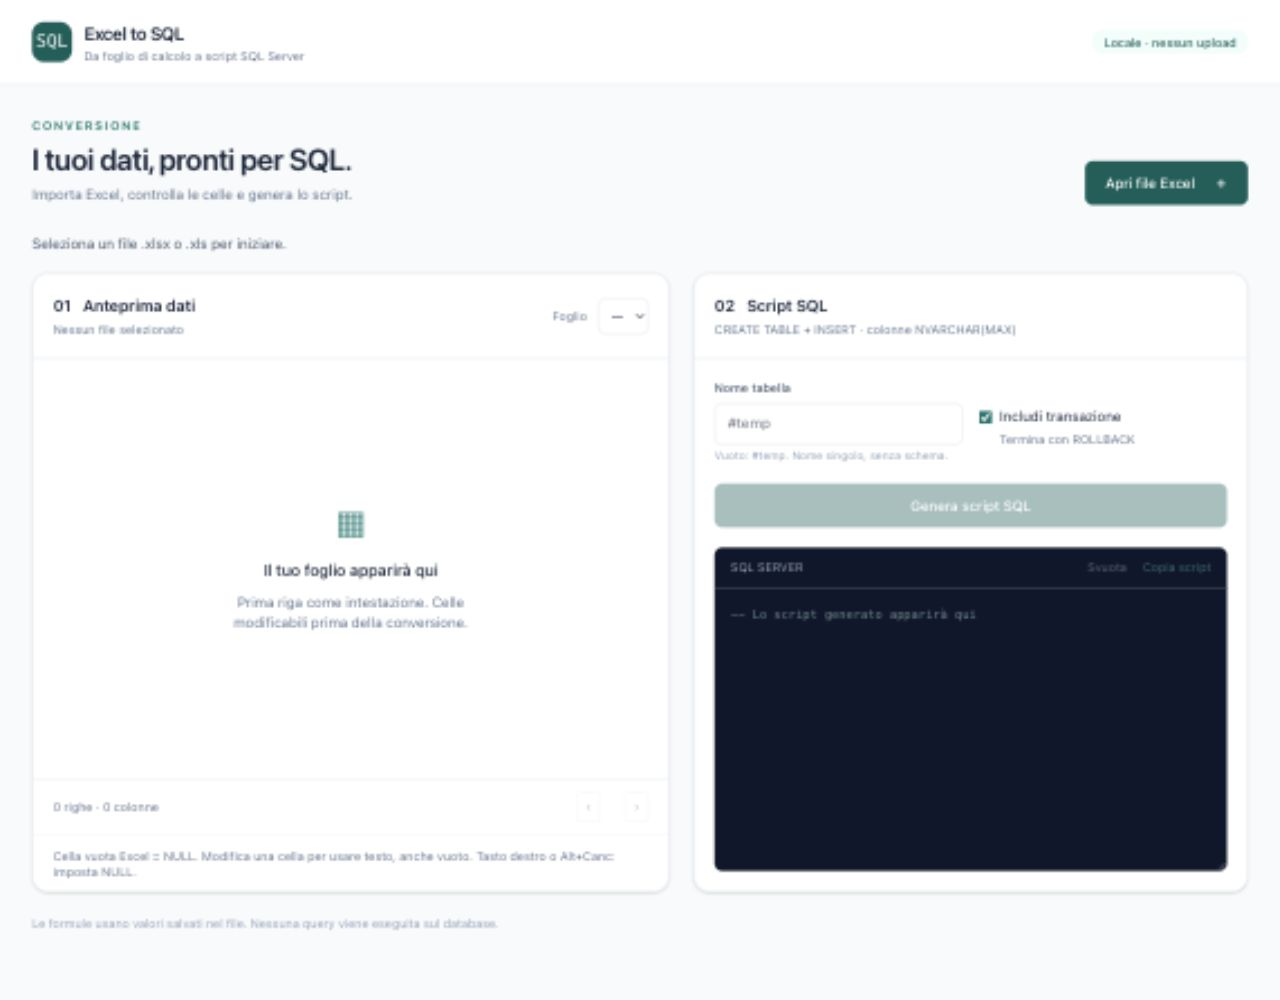
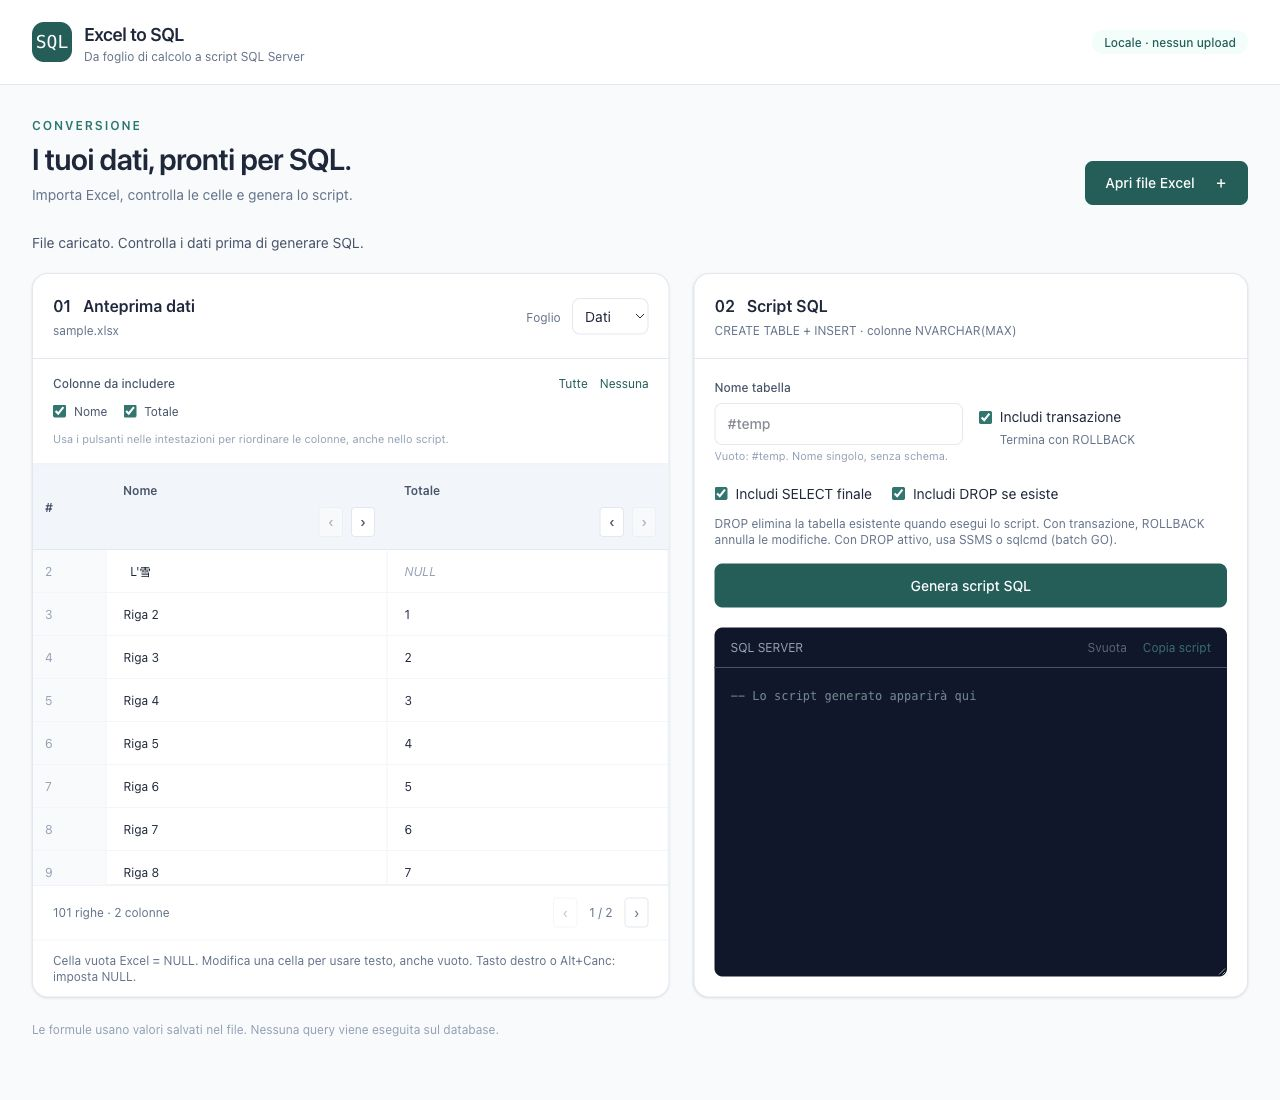
feat: porta selezione colonne e opzioni SQL 1.1.0

diff --git a/src/main.ts b/src/main.ts
@@ -6,6 +6,7 @@ import { writeText } from '@tauri-apps/plugin-clipboard-manager';
 type Sheet = { name: string; headers: string[]; rows: (string | null)[][]; warnings: string[] };
 let sheets: Sheet[] = [];
 let selected = 0;
+let included: boolean[][] = [];
 let page = 0;
 let busy = false;
 const pageSize = 100;
@@ -17,12 +18,14 @@ app.innerHTML = `
 <p id="status" role="status" aria-live="polite" class="mb-5 min-h-5 text-sm text-slate-600">Seleziona un file .xlsx o .xls per iniziare.</p>
 <div class="grid gap-6 xl:grid-cols-[minmax(0,1.15fr)_minmax(0,1fr)]">
 <section class="panel flex min-w-0 flex-col"><div class="flex flex-wrap items-center justify-between gap-3 border-b border-slate-200 p-5"><div><h3 class="font-semibold">01 <span class="ml-2">Anteprima dati</span></h3><p id="filename" class="mt-1 max-w-80 truncate text-xs text-slate-500">Nessun file selezionato</p></div><label class="text-xs text-slate-500">Foglio <select id="sheet" disabled class="ml-2 max-w-48 rounded-lg border border-slate-200 bg-white p-2 text-sm text-slate-800"><option>—</option></select></label></div>
+<fieldset id="columns" hidden class="border-b border-slate-200 px-5 py-4"><legend class="sr-only">Colonne da includere nello script</legend><div class="mb-3 flex items-center justify-between gap-3"><span class="text-xs font-medium text-slate-600">Colonne da includere</span><div class="flex gap-3 text-xs text-teal-800"><button id="all-columns" type="button">Tutte</button><button id="no-columns" type="button">Nessuna</button></div></div><div id="column-list" class="flex max-h-28 flex-wrap gap-x-4 gap-y-2 overflow-auto"></div><p class="mt-3 text-[11px] text-slate-400">Usa i pulsanti nelle intestazioni per riordinare le colonne, anche nello script.</p></fieldset>
 <div id="warnings" class="hidden border-b border-amber-200 bg-amber-50 p-4 text-xs text-amber-900"></div>
 <div id="grid" class="h-[420px] overflow-auto"><div class="flex h-full flex-col items-center justify-center gap-3 p-8 text-center"><span class="text-4xl text-teal-700" aria-hidden="true">▦</span><p class="font-medium">Il tuo foglio apparirà qui</p><p class="max-w-64 text-sm text-slate-500">Prima riga come intestazione. Celle modificabili prima della conversione.</p></div></div>
 <div class="flex items-center justify-between border-t border-slate-200 px-5 py-3 text-xs text-slate-500"><span id="count">0 righe · 0 colonne</span><div class="flex items-center gap-3"><button id="previous" class="secondary" disabled aria-label="Pagina precedente">‹</button><span id="page"></span><button id="next" class="secondary" disabled aria-label="Pagina successiva">›</button></div></div>
 <p class="border-t border-slate-100 px-5 py-3 text-xs text-slate-500">Cella vuota Excel = NULL. Modifica una cella per usare testo, anche vuoto. Tasto destro o Alt+Canc: imposta NULL.</p></section>
 <section class="panel flex min-w-0 flex-col"><div class="border-b border-slate-200 p-5"><h3 class="font-semibold">02 <span class="ml-2">Script SQL</span></h3><p class="mt-1 text-xs text-slate-500">CREATE TABLE + INSERT · colonne NVARCHAR(MAX)</p></div>
 <div class="grid gap-4 p-5 sm:grid-cols-2"><label class="text-xs font-medium text-slate-600">Nome tabella<input id="name" placeholder="#temp" class="mt-2 w-full rounded-lg border border-slate-200 px-3 py-2.5 text-sm text-slate-900" maxlength="128"><span class="mt-1 block text-[11px] font-normal text-slate-400">Vuoto: #temp. Nome singolo, senza schema.</span></label><label class="flex items-start gap-2 pt-7 text-sm"><input id="transaction" type="checkbox" checked class="mt-1 accent-teal-700"><span>Includi transazione<span class="mt-1 block text-xs text-slate-500">Termina con ROLLBACK</span></span></label></div>
+<div class="flex flex-wrap gap-x-5 gap-y-3 px-5 pb-4 text-sm"><label class="flex items-center gap-2"><input id="include-select" type="checkbox" checked class="accent-teal-700">Includi SELECT finale</label><label class="flex items-center gap-2"><input id="drop-existing" type="checkbox" checked class="accent-teal-700">Includi DROP se esiste</label><p class="w-full text-xs text-slate-500">DROP elimina la tabella esistente quando esegui lo script. Con transazione, ROLLBACK annulla le modifiche. Con DROP attivo, usa SSMS o sqlcmd (batch GO).</p></div>
 <div class="px-5 pb-5"><button id="generate" disabled class="primary w-full">Genera script SQL</button></div>
 <div class="mx-5 flex items-center justify-between rounded-t-lg bg-slate-900 px-4 py-3 text-xs text-slate-400"><span>SQL SERVER</span><div class="flex gap-4"><button id="clear" disabled class="text-slate-300 hover:text-white">Svuota</button><button id="copy" disabled class="text-teal-300 hover:text-teal-100">Copia script</button></div></div>
 <textarea id="output" aria-label="Script SQL generato" readonly spellcheck="false" placeholder="-- Lo script generato apparirà qui" class="mx-5 mb-5 min-h-64 flex-1 resize-y rounded-b-lg border-0 bg-slate-900 p-4 font-mono text-xs leading-6 text-teal-100 outline-none"></textarea></section></div>
@@ -32,13 +35,37 @@ const status = (text: string, error = false) => { el('status').textContent = tex
 const output = el<HTMLTextAreaElement>('output');
 function invalidate() { output.value = ''; buttons(); }
 function buttons() {
-  for (const id of ['import', 'sheet', 'name', 'transaction']) (el(id) as HTMLInputElement).disabled = busy || (id === 'sheet' && !sheets.length);
-  el<HTMLButtonElement>('generate').disabled = busy || !sheets[selected]?.headers.length;
+  for (const id of ['import', 'sheet', 'name', 'transaction', 'include-select', 'drop-existing']) (el(id) as HTMLInputElement).disabled = busy || (id === 'sheet' && !sheets.length);
+  el<HTMLButtonElement>('generate').disabled = busy || !included[selected]?.some(Boolean);
   for (const id of ['copy', 'clear']) el<HTMLButtonElement>(id).disabled = busy || !output.value;
   el('grid').querySelectorAll('input').forEach(input => { input.disabled = busy; });
+  el('columns').querySelectorAll('input, button').forEach(control => { (control as HTMLInputElement).disabled = busy; });
+  el('grid').querySelectorAll<HTMLButtonElement>('button').forEach(button => { button.disabled = busy || button.dataset.boundary === 'true'; });
   const total = sheets[selected]?.rows.length ?? 0;
   el<HTMLButtonElement>('previous').disabled = busy || page === 0;
   el<HTMLButtonElement>('next').disabled = busy || (page + 1) * pageSize >= total;
+}
+function renderColumns() {
+  const sheet = sheets[selected];
+  el('columns').hidden = !sheet?.headers.length;
+  const list = el('column-list'); list.replaceChildren();
+  sheet?.headers.forEach((header, index) => {
+    const label = document.createElement('label'); label.className = 'flex items-center gap-2 text-xs text-slate-600';
+    const check = document.createElement('input'); check.type = 'checkbox'; check.className = 'accent-teal-700';
+    check.checked = included[selected][index];
+    check.setAttribute('aria-label', `Includi colonna ${index + 1}: ${header}`);
+    check.addEventListener('change', () => { included[selected][index] = check.checked; invalidate(); });
+    const text = document.createElement('span'); text.textContent = header;
+    label.append(check, text); list.append(label);
+  });
+}
+function moveColumn(index: number, offset: number) {
+  const sheet = sheets[selected]; const next = index + offset;
+  if (busy || next < 0 || next >= sheet.headers.length) return;
+  [sheet.headers[index], sheet.headers[next]] = [sheet.headers[next], sheet.headers[index]];
+  [included[selected][index], included[selected][next]] = [included[selected][next], included[selected][index]];
+  sheet.rows.forEach(row => { [row[index], row[next]] = [row[next], row[index]]; });
+  invalidate(); renderGrid();
 }
 function renderGrid() {
   const sheet = sheets[selected];
@@ -49,8 +76,15 @@ function renderGrid() {
   sheet.headers.forEach((header, index) => {
     const th = document.createElement('th'); const input = document.createElement('input');
     input.value = header; input.setAttribute('aria-label', `Intestazione colonna ${index + 1}`);
-    input.addEventListener('input', () => { sheet.headers[index] = input.value; invalidate(); });
-    th.append(input); head.append(th);
+    input.addEventListener('input', () => { sheet.headers[index] = input.value; renderColumns(); invalidate(); });
+    const controls = document.createElement('div'); controls.className = 'flex justify-end gap-2 pt-1';
+    for (const [offset, symbol, direction] of [[-1, '‹', 'sinistra'], [1, '›', 'destra']] as const) {
+      const button = document.createElement('button'); button.type = 'button'; button.className = 'secondary'; button.textContent = symbol;
+      button.setAttribute('aria-label', `Sposta ${header} a ${direction}`);
+      button.dataset.boundary = String(index + offset < 0 || index + offset >= sheet.headers.length);
+      button.addEventListener('click', () => moveColumn(index, offset)); controls.append(button);
+    }
+    th.append(input, controls); head.append(th);
   });
   const body = table.createTBody();
   sheet.rows.slice(page * pageSize, (page + 1) * pageSize).forEach((row, offset) => {
@@ -72,7 +106,7 @@ function renderGrid() {
   el('page').textContent = `${page + 1} / ${Math.max(1, Math.ceil(sheet.rows.length / pageSize))}`;
   el('warnings').textContent = sheet.warnings.join(' ');
   el('warnings').classList.toggle('hidden', !sheet.warnings.length);
-  buttons();
+  renderColumns(); buttons();
 }
 el('import').addEventListener('click', async () => {
   if (!isTauri()) { status('Apri l’app desktop con npm run tauri dev per importare file Excel.', true); return; }
@@ -83,7 +117,7 @@ el('import').addEventListener('click', async () => {
     status('Lettura del file Excel…');
     const workbook = await invoke<{sheets: Sheet[]}>('import_workbook', {path});
     if (!workbook.sheets.length) throw new Error('Il file non contiene fogli.');
-    sheets = workbook.sheets; selected = 0; page = 0;
+    sheets = workbook.sheets; included = sheets.map(sheet => sheet.headers.map(() => true)); selected = 0; page = 0;
     const select = el<HTMLSelectElement>('sheet'); select.replaceChildren();
     sheets.forEach((sheet, i) => select.add(new Option(sheet.name, String(i))));
     el('filename').textContent = path.split(/[\\/]/).pop()!;
@@ -95,12 +129,23 @@ el('sheet').addEventListener('change', () => { selected = Number(el<HTMLSelectEl
 el('previous').addEventListener('click', () => { page--; renderGrid(); });
 el('next').addEventListener('click', () => { page++; renderGrid(); });
 el('name').addEventListener('input', invalidate);
-el('transaction').addEventListener('change', invalidate);
+for (const id of ['transaction', 'include-select', 'drop-existing']) el(id).addEventListener('change', invalidate);
+for (const [id, value] of [['all-columns', true], ['no-columns', false]] as const) {
+  el(id).addEventListener('click', () => { included[selected].fill(value); renderColumns(); invalidate(); });
+}
 el('generate').addEventListener('click', async () => {
   busy = true; buttons(); status('Generazione SQL…');
   try {
     const sheet = sheets[selected];
-    output.value = await invoke<string>('generate_sql', {table: {headers: sheet.headers, rows: sheet.rows}, name: el<HTMLInputElement>('name').value, transaction: el<HTMLInputElement>('transaction').checked});
+    const columns = sheet.headers.flatMap((_, index) => included[selected][index] ? [index] : []);
+    if (!columns.length) throw new Error('Seleziona almeno una colonna.');
+    output.value = await invoke<string>('generate_sql', {
+      table: { headers: columns.map(index => sheet.headers[index]), rows: sheet.rows.map(row => columns.map(index => row[index])) },
+      name: el<HTMLInputElement>('name').value,
+      transaction: el<HTMLInputElement>('transaction').checked,
+      includeSelect: el<HTMLInputElement>('include-select').checked,
+      dropExisting: el<HTMLInputElement>('drop-existing').checked,
+    });
     status(`Script generato: ${sheet.rows.length} INSERT. Nessuna query eseguita.`);
   } catch (error) { status(String(error), true); }
   finally { busy = false; buttons(); }

diff --git a/scripts/ui-smoke.html b/scripts/ui-smoke.html
@@ -7,7 +7,7 @@ mockIPC((command, args) => {
   if(command==='import_workbook') return structuredClone(workbook);
   if(command==='generate_sql') {
     if(args.table.rows.length!==101) throw 'UI smoke: righe perse nella paginazione';
-    if(args.table.headers.length!==2) throw 'UI smoke: colonne perse';
+    if(!args.table.headers.length || args.table.rows.some(row=>row.length!==args.table.headers.length)) throw 'UI smoke: selezione colonne incoerente';
     return '-- UI smoke: payload IPC (generazione SQL verificata nei test Rust)\n'+JSON.stringify(args,null,2);
   }
   if(command==='plugin:clipboard-manager|write_text') {

diff --git a/src-tauri/src/sql.rs b/src-tauri/src/sql.rs
@@ -16,7 +16,13 @@ fn identifier(value: &str) -> Result<String, String> {
     Ok(format!("[{}]", value.replace(']', "]]")))
 }
 
-pub fn generate(table: &Table, name: &str, transaction: bool) -> Result<String, String> {
+pub fn generate(
+    table: &Table,
+    name: &str,
+    transaction: bool,
+    include_select: bool,
+    drop_existing: bool,
+) -> Result<String, String> {
     if table.headers.is_empty() {
         return Err("Nessuna colonna da convertire.".into());
     }
@@ -28,6 +34,12 @@ pub fn generate(table: &Table, name: &str, transaction: bool) -> Result<String, 
     if name.starts_with('#') && name.encode_utf16().count() > 116 {
         return Err("Nome tabella temporanea: massimo 116 caratteri.".into());
     }
+    let lookup = if name.starts_with('#') {
+        format!("tempdb..{}", identifier(name)?)
+    } else {
+        identifier(name)?
+    }
+    .replace('\'', "''");
     let name = identifier(name)?;
     let mut seen = HashSet::new();
     let columns: Vec<String> = table
@@ -44,6 +56,13 @@ pub fn generate(table: &Table, name: &str, transaction: bool) -> Result<String, 
     if transaction {
         output.push_str("BEGIN TRANSACTION;\n\n");
     }
+    if drop_existing {
+        writeln!(
+            output,
+            "IF OBJECT_ID(N'{lookup}', N'U') IS NOT NULL DROP TABLE {name};\nGO\n"
+        )
+        .unwrap();
+    }
     writeln!(
         output,
         "CREATE TABLE {name} (\n  {}\n);\n",
@@ -54,6 +73,9 @@ pub fn generate(table: &Table, name: &str, transaction: bool) -> Result<String, 
             .join(",\n  ")
     )
     .unwrap();
+    if drop_existing {
+        output.push_str("GO\n\n");
+    }
     for row in &table.rows {
         if row.len() != columns.len() {
             return Err("Numero celle diverso dal numero colonne.".into());
@@ -73,6 +95,9 @@ pub fn generate(table: &Table, name: &str, transaction: bool) -> Result<String, 
         )
         .unwrap();
     }
+    if include_select {
+        writeln!(output, "\nSELECT * FROM {name};").unwrap();
+    }
     if transaction {
         output.push_str("\nROLLBACK TRANSACTION;\n");
     }
@@ -88,7 +113,7 @@ mod tests {
             headers: vec!["a]b".into(), "vuoto".into(), "nullo".into()],
             rows: vec![vec![Some("  l'雪  ".into()), Some("".into()), None]],
         };
-        let sql = generate(&table, "#t]; DROP TABLE x;--", true).unwrap();
+        let sql = generate(&table, "#t]; DROP TABLE x;--", true, false, false).unwrap();
         assert!(sql.contains("[#t]]; DROP TABLE x;--]"));
         assert!(sql.contains("[a]]b]"));
         assert!(sql.contains("N'  l''雪  ', N'', NULL"));
@@ -100,12 +125,12 @@ mod tests {
             headers: vec!["A".into(), "a".into()],
             rows: vec![],
         };
-        assert!(generate(&table, "", false).is_err());
+        assert!(generate(&table, "", false, false, false).is_err());
         table.headers = vec!["".into()];
-        assert!(generate(&table, "", false).is_err());
+        assert!(generate(&table, "", false, false, false).is_err());
         table.headers = vec!["ok".into()];
         table.rows = vec![vec![]];
-        assert!(generate(&table, "", false).is_err());
+        assert!(generate(&table, "", false, false, false).is_err());
     }
     #[test]
     fn defaults_to_temp_without_transaction() {
@@ -113,9 +138,65 @@ mod tests {
             headers: vec!["id".into()],
             rows: vec![],
         };
-        let sql = generate(&table, " ", false).unwrap();
+        let sql = generate(&table, " ", false, false, false).unwrap();
         assert!(sql.starts_with("CREATE TABLE [#temp]"));
         assert!(!sql.contains("TRANSACTION"));
         assert!(!sql.contains("INSERT"));
+    }
+    #[test]
+    fn optional_statements_follow_execution_order() {
+        let table = Table {
+            headers: vec!["id".into()],
+            rows: vec![vec![Some("1".into())]],
+        };
+        for transaction in [false, true] {
+            for include_select in [false, true] {
+                for drop_existing in [false, true] {
+                    let sql = generate(&table, "#temp", transaction, include_select, drop_existing)
+                        .unwrap();
+                    assert_eq!(sql.contains("BEGIN TRANSACTION"), transaction);
+                    assert_eq!(sql.contains("ROLLBACK TRANSACTION"), transaction);
+                    assert_eq!(sql.contains("SELECT * FROM [#temp];"), include_select);
+                    assert_eq!(sql.contains("DROP TABLE"), drop_existing);
+                    let create = sql.find("CREATE TABLE").unwrap();
+                    let insert = sql.find("INSERT INTO").unwrap();
+                    assert!(create < insert);
+                    if drop_existing {
+                        assert!(sql.find("DROP TABLE").unwrap() < create);
+                        assert!(sql.contains("OBJECT_ID(N'tempdb..[#temp]', N'U')"));
+                        assert!(sql[..create].contains("\nGO\n"));
+                        assert!(sql[create..insert].contains("\nGO\n"));
+                    }
+                    if include_select {
+                        assert!(insert < sql.find("SELECT *").unwrap());
+                        if transaction {
+                            assert!(sql.find("SELECT *").unwrap() < sql.find("ROLLBACK").unwrap());
+                        }
+                    }
+                }
+            }
+        }
+    }
+    #[test]
+    fn drop_checks_current_database_for_permanent_tables_and_escapes_names() {
+        let table = Table {
+            headers: vec!["id".into()],
+            rows: vec![],
+        };
+        let sql = generate(&table, "L'anno]", false, true, true).unwrap();
+        assert!(sql.contains("OBJECT_ID(N'[L''anno]]]', N'U')"));
+        assert!(sql.contains("DROP TABLE [L'anno]]];"));
+        assert!(!sql.contains("tempdb"));
+        assert!(generate(
+            &Table {
+                headers: vec![],
+                rows: vec![]
+            },
+            "#temp",
+            false,
+            true,
+            true
+        )
+        .is_err());
     }
 }

diff --git a/src-tauri/src/main.rs b/src-tauri/src/main.rs
@@ -14,10 +14,14 @@ async fn generate_sql(
     table: sql::Table,
     name: String,
     transaction: bool,
+    include_select: bool,
+    drop_existing: bool,
 ) -> Result<String, String> {
-    tauri::async_runtime::spawn_blocking(move || sql::generate(&table, &name, transaction))
-        .await
-        .map_err(|e| e.to_string())?
+    tauri::async_runtime::spawn_blocking(move || {
+        sql::generate(&table, &name, transaction, include_select, drop_existing)
+    })
+    .await
+    .map_err(|e| e.to_string())?
 }
 
 fn main() {

diff --git a/src-tauri/src/workbook.rs b/src-tauri/src/workbook.rs
@@ -83,6 +83,8 @@ pub fn read(path: &str) -> Result<Workbook, String> {
                 },
                 "#temp",
                 false,
+                false,
+                false,
             )
             .map_err(|e| format!("Foglio {name}: {e}"))?;
         }
@@ -123,6 +125,8 @@ mod tests {
             },
             "",
             true,
+            false,
+            false,
         )
         .unwrap();
         assert_eq!(sql.matches("INSERT INTO").count(), 2);

diff --git a/README.md b/README.md
@@ -27,14 +27,15 @@ I pacchetti vengono generati in `src-tauri/target/release/bundle`. Compilare sul
 
 1. Apri `.xlsx` o `.xls` e seleziona il foglio.
 2. Controlla intestazioni e celle. L'anteprima mostra 100 righe per pagina; la conversione include tutte le righe del foglio.
-3. Inserisci un nome tabella oppure lascia `#temp`.
-4. Genera e copia lo script SQL Server.
+3. Seleziona le colonne da includere. `Tutte` e `Nessuna` modificano la selezione; i pulsanti nelle intestazioni riordinano colonne e valori anche nello script.
+4. Inserisci un nome tabella oppure lascia `#temp` e scegli transazione, SELECT finale e DROP condizionale.
+5. Genera e copia lo script SQL Server.
 
 La prima riga dell'intervallo usato contiene le intestazioni. Le intestazioni vuote ricevono `Colonna_N`; nomi duplicati o non validi producono un errore. I nomi sono identificatori singoli: `dbo.Clienti` indica una tabella con quel nome letterale, non uno schema.
 
 Tutte le colonne sono `NVARCHAR(MAX) NULL`. Il testo conserva spazi, apostrofi e Unicode. Celle vuote Excel diventano `NULL`; una cella modificata e svuotata diventa stringa vuota. Tasto destro o Alt+Canc sulla cella imposta `NULL`. Le modifiche invalidano lo script precedente e non modificano il file Excel.
 
-Le formule usano il risultato salvato nel file: il programma non ricalcola Excel. Date riconosciute vengono convertite in testo data/ora; formattazioni personalizzate, macro e motore di calcolo Excel non vengono riprodotti. Errori nelle celle vengono segnalati. La transazione opzionale termina con `ROLLBACK TRANSACTION`. Nessuna connessione database, nessuna query eseguita e nessun upload.
+Le formule usano il risultato salvato nel file: il programma non ricalcola Excel. Date riconosciute vengono convertite in testo data/ora; formattazioni personalizzate, macro e motore di calcolo Excel non vengono riprodotti. Errori nelle celle vengono segnalati. Le tre opzioni sono attive inizialmente, come nel branch `release/1.1.0`. Il DROP condizionale precede CREATE TABLE e controlla `tempdb` per le tabelle temporanee, il database corrente per le altre. Quando esegui lo script, DROP elimina la tabella esistente. Quando DROP è attivo, separatori `GO` dividono DROP, CREATE e INSERT in batch distinti; esegui lo script in SSMS, sqlcmd o un client che supporta `GO`, mantenendo la stessa sessione. Il SELECT finale segue gli INSERT. La transazione opzionale termina con `ROLLBACK TRANSACTION`. Nessuna connessione database, nessuna query eseguita e nessun upload.
 
 ## Regressione
 
@@ -45,9 +46,17 @@ La versione WinForms precedente resta recuperabile nella cronologia Git.
 ## Verifica eseguita
 
 - TypeScript e build Vite/Tailwind completati.
-- Otto test Rust passati, inclusa importazione XLS/XLSX e generazione SQL.
+- Dieci test Rust passati, inclusa importazione XLS/XLSX e generazione SQL.
 - Bundle macOS Intel di debug creato e processo avviato senza errori.
-- Flusso UI verificato nel browser con IPC Tauri simulato (`scripts/ui-smoke.html`): importazione, modifica, generazione, copia, invalidazione, paginazione su 101 righe e foglio vuoto. La simulazione non prova dialoghi e appunti nativi.
+- Flusso UI verificato nel browser con IPC Tauri simulato (`scripts/ui-smoke.html`): importazione, modifica, generazione, copia, invalidazione, paginazione su 101 righe e foglio vuoto. Verificati anche selezione singola, Tutte/Nessuna, riordino con valori allineati, passaggio opzioni e invalidazione dello script. La simulazione non prova dialoghi e appunti nativi.
 - Nessuna verifica su Windows/Linux, firma, notarizzazione o SQL Server reale.
 
 Il lockfile Cargo mantiene `zip 8.6.0`, richiesto da calamine 0.36.1 ma ritirato dal registro. Conservare `Cargo.lock` e usare `--locked`; un aggiornamento di calamine con supporto a una serie zip disponibile permetterà di rimuovere questo vincolo. Nessun sorgente di dipendenze modificato.
+
+Separazione dei batch DROP/CREATE: [indicazione Microsoft SQL Server](https://learn.microsoft.com/en-us/sql/t-sql/statements/drop-table-transact-sql?view=sql-server-ver17). L’anteprima in `assets/preview.png` usa dati di test con IPC simulato.
+
+## Funzionalità portate da release/1.1.0
+
+Analizzati i sei commit da `ca6853c` a `064baa0`: selezione colonne e comando Tutto, SELECT opzionale, selezione foglio, chiusura Excel, DROP condizionale e correzioni successive. Selezione foglio e gestione errori erano già presenti nella versione Rust. Non servono processi Excel da chiudere: calamine legge direttamente il file e rilascia le risorse al termine. Il riordino ora mantiene coerente anche l'ordine delle colonne nello script.
+
+Tutte le colonne sono selezionate inizialmente per mantenere il flusso della versione Tauri; nessuna selezione disabilita la generazione. Selezione e riordino vengono mantenuti per ciascun foglio fino alla prossima importazione.
